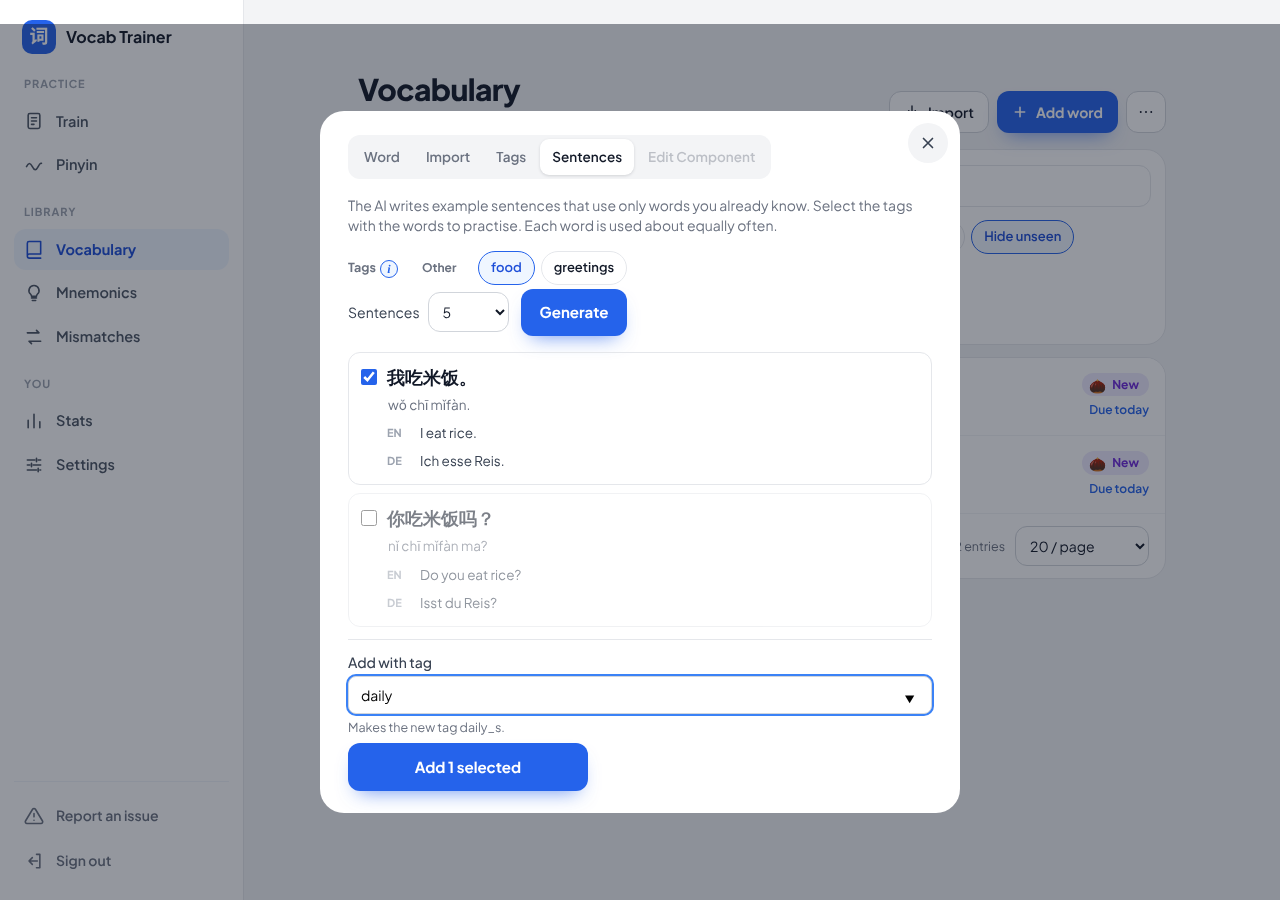
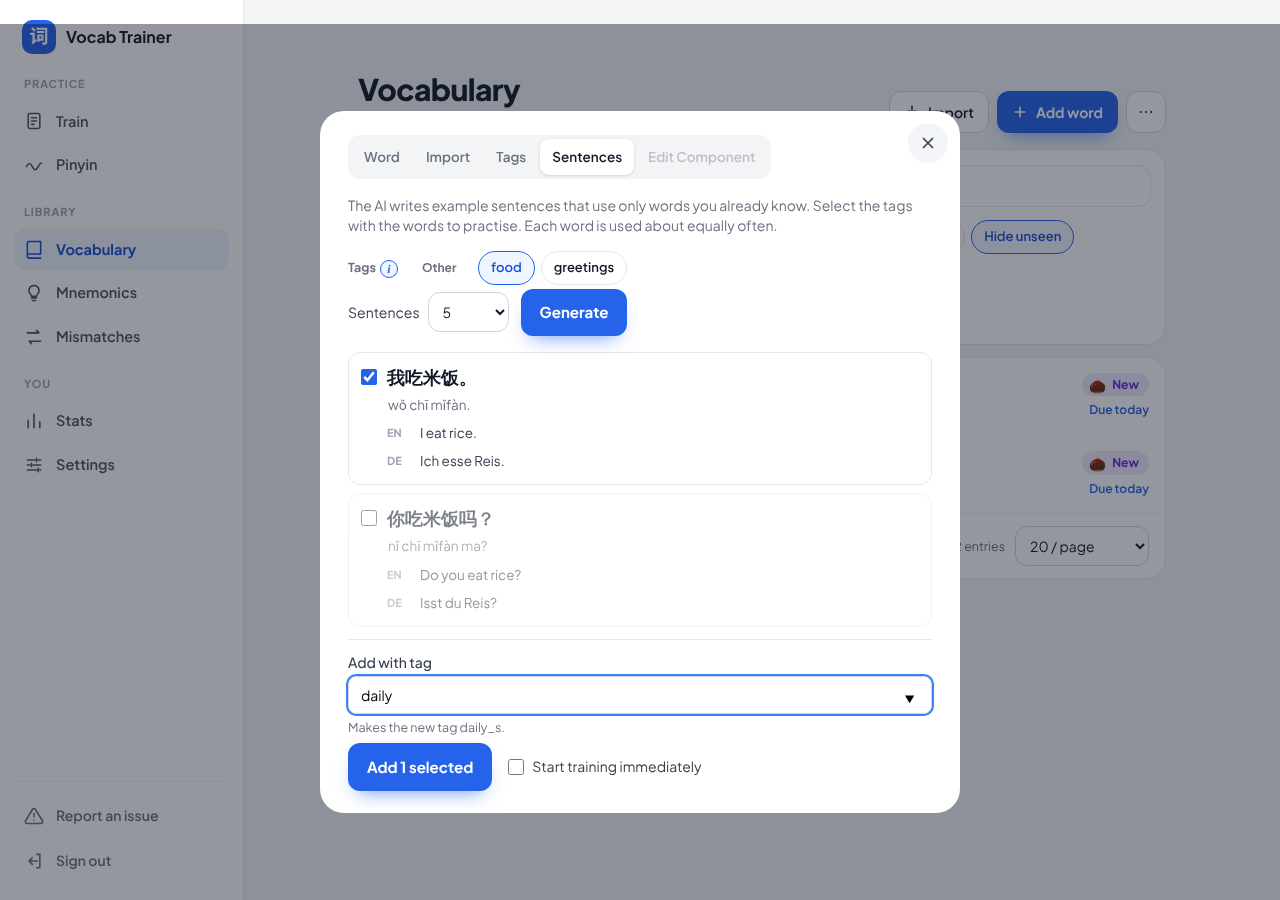
Add a Start training immediately box to the sentences tab
Next to Add selected, a check box sends start_training with each
sentence, so the sentences go into training at once (same as the
toggle in the Add word form). Off by default.

Claude-Session: https://claude.ai/code/session_01EuQtWY4os5AgEHhyAPDWB3

Changed region(s): [[0.2812, 0.8089, 0.5312, 0.9022]]

diff --git a/e2e/sentences.spec.js b/e2e/sentences.spec.js
@@ -79,6 +79,7 @@ test.describe('Generate sentences', () => {
     await expect(rows.nth(0).locator('input[type=checkbox]')).toBeChecked();
 
     await rows.nth(1).locator('input[type=checkbox]').uncheck();
+    await expect(page.locator('#sentences-start-training')).not.toBeChecked();
     await page.locator('#sentences-tag-input').fill('daily');
     await expect(page.locator('#sentences-tag-hint')).toContainText('daily_s');
     await expect(page.locator('#sentences-add-btn')).toBeEnabled();
@@ -94,6 +95,18 @@ test.describe('Generate sentences', () => {
     expect(words[0].tags).toContain('daily_s');
     expect(words[0].translations.en).toEqual(['I eat rice.']);
     expect(words[0].translations.de).toEqual(['Ich esse Reis.']);
+    expect(words[0].total_attempts).toBe(0); // not in training yet
+
+    // The other sentence goes into training at once.
+    await expect(rows).toHaveCount(1);
+    await expect(rows.nth(0)).toContainText('你吃米饭吗？');
+    await page.locator('#sentences-start-training').check();
+    await page.locator('#sentences-add-btn').click();
+    await expect(page.locator('#sentences-status')).toContainText('1');
+    const trained = (await (await page.request.get('/api/words?tags=daily_s&per_page=50')).json());
+    const byZh = Object.fromEntries((trained.words || trained).map(w => [w.zh_text, w]));
+    expect(byZh['你吃米饭吗？'].total_attempts).toBe(1);
+    expect(byZh['我吃米饭。'].total_attempts).toBe(0);
   });
 
   test('generating waits for the slow-call timeout, then shows the timeout message', async ({ page }) => {

diff --git a/service/frontend/vocab-sentences.js b/service/frontend/vocab-sentences.js
@@ -15,8 +15,8 @@ function normalizeSentenceTag(name) {
 }
 
 // sentenceWordPayload builds the POST /api/words body for one generated
-// sentence. Pure for unit testing.
-function sentenceWordPayload(sentence, tag) {
+// sentence; startTraining puts it into training at once. Pure for unit testing.
+function sentenceWordPayload(sentence, tag, startTraining) {
   const translations = {};
   for (const [lang, list] of Object.entries(sentence.translations || {})) {
     const clean = list.map(s => s.trim()).filter(Boolean);
@@ -27,6 +27,7 @@ function sentenceWordPayload(sentence, tag) {
     pinyin: (sentence.pinyin || '').trim(),
     translations,
     tags: [tag],
+    start_training: !!startTraining,
   };
 }
 
@@ -159,13 +160,14 @@ async function addSelectedSentences() {
   const btn = $('sentences-add-btn');
   btn.disabled = true;
   const checked = [...$('sentences-results').querySelectorAll('.sentence-check:checked')];
+  const startTraining = $('sentences-start-training').checked;
   const addedIdx = new Set();
   const failed = [];
   for (const cb of checked) {
     const i = Number(cb.dataset.index);
     const s = sentResults[i];
     try {
-      await apiFetch('/api/words', { method: 'POST', body: JSON.stringify(sentenceWordPayload(s, tag)) });
+      await apiFetch('/api/words', { method: 'POST', body: JSON.stringify(sentenceWordPayload(s, tag, startTraining)) });
       addedIdx.add(i);
     } catch (e) {
       failed.push(`${s.zh_text}: ${e.message}`);

diff --git a/service/frontend/vocab-sentences.test.js b/service/frontend/vocab-sentences.test.js
@@ -10,7 +10,7 @@ function normalizeSentenceTag(name) {
   return tag.endsWith('_s') ? tag : tag + '_s';
 }
 
-function sentenceWordPayload(sentence, tag) {
+function sentenceWordPayload(sentence, tag, startTraining) {
   const translations = {};
   for (const [lang, list] of Object.entries(sentence.translations || {})) {
     const clean = list.map(s => s.trim()).filter(Boolean);
@@ -21,6 +21,7 @@ function sentenceWordPayload(sentence, tag) {
     pinyin: (sentence.pinyin || '').trim(),
     translations,
     tags: [tag],
+    start_training: !!startTraining,
   };
 }
 
@@ -55,7 +56,13 @@ describe('sentenceWordPayload', () => {
       pinyin: 'wǒ chī mǐ fàn.',
       translations: { en: ['I eat rice.'], de: ['Ich esse Reis.'] },
       tags: ['daily_s'],
+      start_training: false,
     });
+  });
+
+  it('asks to start training when the box is checked', () => {
+    const p = sentenceWordPayload({ zh_text: '我吃米饭。', pinyin: '', translations: { en: ['I eat rice.'] } }, 'x_s', true);
+    expect(p.start_training).toBe(true);
   });
 
   it('drops empty translations the user cleared', () => {

diff --git a/service/frontend/app.css b/service/frontend/app.css
@@ -734,6 +734,9 @@ label.st-text { cursor: pointer; }
 .sentence-input:hover, .sentence-input:focus { border-color: #d1d5db; background: #fff; outline: none; }
 .sentence-pinyin { color: #6b7280; margin-left: -6px; }
 .sent-import { border-top: 1px solid #e5e7eb; padding-top: 12px; }
+.vb-form-actions.sent-actions { display: flex; flex-wrap: wrap; align-items: center; gap: 8px 16px; }
+.sent-start { display: inline-flex; align-items: center; gap: 8px; font-size: 14px; color: #374151; cursor: pointer; }
+.sent-start input { width: 16px; height: 16px; accent-color: #2563eb; }
 .vb-sheet-title { margin: 0 0 14px; font-size: 20px; font-weight: 800; letter-spacing: -0.01em; color: #111827; }
 .vb-form { display: flex; flex-direction: column; gap: 14px; }
 .vb-grid-2 { display: grid; grid-template-columns: minmax(0,1fr) minmax(0,1fr); gap: 10px; }

diff --git a/service/frontend/vocab.html b/service/frontend/vocab.html
@@ -375,8 +375,12 @@
             placeholder="e.g. daily_s" data-i18n-placeholder="sent.tagPlaceholder">
           <datalist id="sentences-tag-options"></datalist>
           <p id="sentences-tag-hint" class="tr-muted-sm mt-1"></p>
-          <div class="vb-form-actions">
+          <div class="vb-form-actions sent-actions">
             <button id="sentences-add-btn" type="button" class="ui-btn ui-btn-primary" data-i18n="sent.add">Add selected</button>
+            <label class="sent-start" for="sentences-start-training">
+              <input type="checkbox" id="sentences-start-training">
+              <span data-i18n="vocab.startTraining">Start training immediately</span>
+            </label>
           </div>
         </div>
         <p id="sentences-status" class="hidden text-sm mt-3" role="status"></p>

diff --git a/README.md b/README.md
@@ -47,7 +47,7 @@ This is a self-hosted Chinese-English vocabulary trainer. It uses the SM-2 space
 - **Bucket growth indicator.** The result screen shows one growth icon (🌰🌱🌿🌳🌸) for each accuracy tier: New, Struggling, Learning, Practicing, or Mastered. The icon marks the current tier of a word, HMM entity, or component, on both correct and wrong answers.
   - **Celebrate bucket changes** is an optional setting, off by default, in Settings → Training Mode → Quiz Display. When a correct answer advances a word's tier, this setting shows a "Level up" screen before the result screen. The old tier's icon turns and fades into the new one in a tile that changes colour, then a ring pulses once. The screen shows the word and the old → new tier chips.
 - **Sentence fill-in-the-blank.** An optional training mode, off by default, in Settings → Training Mode → Quiz Display ("Sentence fill-in-the-blank" + a frequency percentage). Tag a zh word with a tag that ends in `_s` (for example `hsk2-1_s`) to mark it as a sentence. The tag is in the same tag group as the list it belongs to (`hsk2-1_s` is in the HSK group), so in a training filter the sentences are an addition to the list (OR), not a restriction (AND). When enabled, the training page occasionally shows one of your sentences with one word blanked out instead of a plain word card — either the Chinese word is blanked (translation shown as context) or a word inside the sentence's translation is blanked (Chinese shown as context), following the same direction logic as progressive mode. A sentence only becomes eligible once every word it contains (punctuation aside — commas, quotation marks, etc. are skipped) has been reviewed at least once, and the app always blanks whichever of those words is next due, so the mode reinforces words you already know in context. Answering updates that word's own SM-2 progress, the same as answering it in a normal quiz card would. The result screen shows the full Chinese sentence above the answer word, with the answer word marked, the sentence translation and a speaker button that reads out the sentence. When auto-play is on, the result screen reads out the full sentence.
-- **Generate sentences.** In **Vocabulary → ⋯ → Generate sentences** (or the *Sentences* tab of the sheet), the AI writes example sentences from words you already know. Select tags (tag groups as in the word filter; no tag means all your words) and the number of sentences (5, 10 or 20), then click **Generate**. A word you know is a word you reviewed at least once, the same rule as for sentence fill-in-the-blank. Each sentence contains at least one known word of the selected tags. The app first takes the words of the tags that occur least in your sentences (at most 30), so all words get about the same number of sentences over time. The other words of a sentence must also be words you know. The app removes a sentence that has a word you do not know or that you already have, so every sentence can show in fill-in-the-blank at once. The pinyin comes from your own words. The translations are in your primary and secondary language. You can change the pinyin and the translations, and clear the check box of a sentence you do not want. Then type an existing or a new tag and click **Add N selected**. The app adds `_s` to the tag name if it does not end in `_s` (`daily` becomes `daily_s`), because only a `_s` tag marks a sentence. The sentences are your own words, like a word you add by hand. Requires a plus account or your own LLM key (Settings → API Keys).
+- **Generate sentences.** In **Vocabulary → ⋯ → Generate sentences** (or the *Sentences* tab of the sheet), the AI writes example sentences from words you already know. Select tags (tag groups as in the word filter; no tag means all your words) and the number of sentences (5, 10 or 20), then click **Generate**. A word you know is a word you reviewed at least once, the same rule as for sentence fill-in-the-blank. Each sentence contains at least one known word of the selected tags. The app first takes the words of the tags that occur least in your sentences (at most 30), so all words get about the same number of sentences over time. The other words of a sentence must also be words you know. The app removes a sentence that has a word you do not know or that you already have, so every sentence can show in fill-in-the-blank at once. The pinyin comes from your own words. The translations are in your primary and secondary language. You can change the pinyin and the translations, and clear the check box of a sentence you do not want. Then type an existing or a new tag and click **Add N selected**. Check **Start training immediately** next to the button to put the sentences into training at once, the same as the toggle in the *Add word* form. The app adds `_s` to the tag name if it does not end in `_s` (`daily` becomes `daily_s`), because only a `_s` tag marks a sentence. The sentences are your own words, like a word you add by hand. Requires a plus account or your own LLM key (Settings → API Keys).
 - **Translation ranking.** An optional setting in Settings → Training Mode → Quiz Display ("Hide rare translations during training") — preselected for newly registered users, with max translations shown defaulting to 4 (existing users keep whatever they already had, off by default). CC-CEDICT/HanDeDict-derived translations are ranked by how common each gloss's rarest word is, using bundled English/German word-frequency lists (from [hermitdave/FrequencyWords](https://github.com/hermitdave/FrequencyWords), same source as the existing Chinese frequency list). When enabled, only the top N translations per language (configurable) are shown directly on quiz cards; translations you added or edited yourself are prioritized into that visible set first, but still count against the cap like any other translation. Anything over the cap is collapsed into a "More info" toggle right below the visible list (both on the question screen's translation hint and on the answer-result screen), so you can still see it on demand instead of it being silently dropped — and it always stays a valid answer, cap or no cap. On the *Translation → Chinese* question screen specifically, and in the gray question box on the "Ambiguous" screen (where you still have to type the Chinese answer), CEDICT/HanDeDict example-sentence annotations are left out of "More info" entirely (rather than just collapsed), since an example sentence can contain the Chinese answer you're about to type; they still show in "More info" everywhere else (new-word introduction, answer-result screen). A separate "Also hide translations with no frequency data" toggle controls whether a gloss with no match in the frequency list counts as low-priority (collapsed if over the cap) or is prioritized into the visible set like your own translations — off by default. A "My own translations" dropdown (only active while ranking is on) sets where your own translations go: "Show first" (default) orders them your own → no frequency data → ranked; "Show last" orders them ranked → no frequency data → your own, so your own translations can end up in "More info" when the cap is reached. Within each language's shown list, a trailing short HanDeDict/CEDICT part-of-speech tag like `(S)` or `(V)` is hidden, and an exact duplicate gloss (case-insensitive, after that tag is hidden) is collapsed to a single entry — this is display-only and does not change the cap, the "More info" list, or which answers are accepted.
 - **Pinyin-only translations are hidden.** Some dictionary glosses are only the pinyin of the word, for example the surname gloss "Nan (Eig, Fam)" for 南 nán. Training does not show such a translation, and does not use it as the *Translation → Chinese* prompt or as a match-game answer. The check ignores case, tone marks, spaces and parts in brackets. If this translation is the only one in a language, training shows it. The translation stays a valid answer, and the vocabulary editor still shows it.
 - **Vocabulary page.** The header shows "N words · M due today" with *Import*, *Add word* and a *⋯* menu (*Download vocabulary*, *Upload CSV*, *Manage tags*). A toolbar switches between *Words* and *Components*, has a search field and filter chips (*All*, *Due today*, *Due tomorrow*, *Needs review*, *Known*, *Failed last review*, *Hide unseen*, *Missing DE*/the secondary language). *More filters* adds the level and tag filters, *Missing EN/DE* and the sort order (Chinese, pinyin, English, German, level or due date, ascending or descending). Each word is one row: Hanzi, pinyin, badges, one line per meaning language ("missing" in red when a language has no meaning), the tier chip and the due date. Tap a row to edit it in a sheet (bottom sheet on phones, dialog on desktop) with *Mark as known*, *Reset progress*, *Delete*, *Reset to library* (only for a library word you changed), and folded *Mnemonic* and *Components* sections. Pagination (20/50/100 per page) sits under the list.
